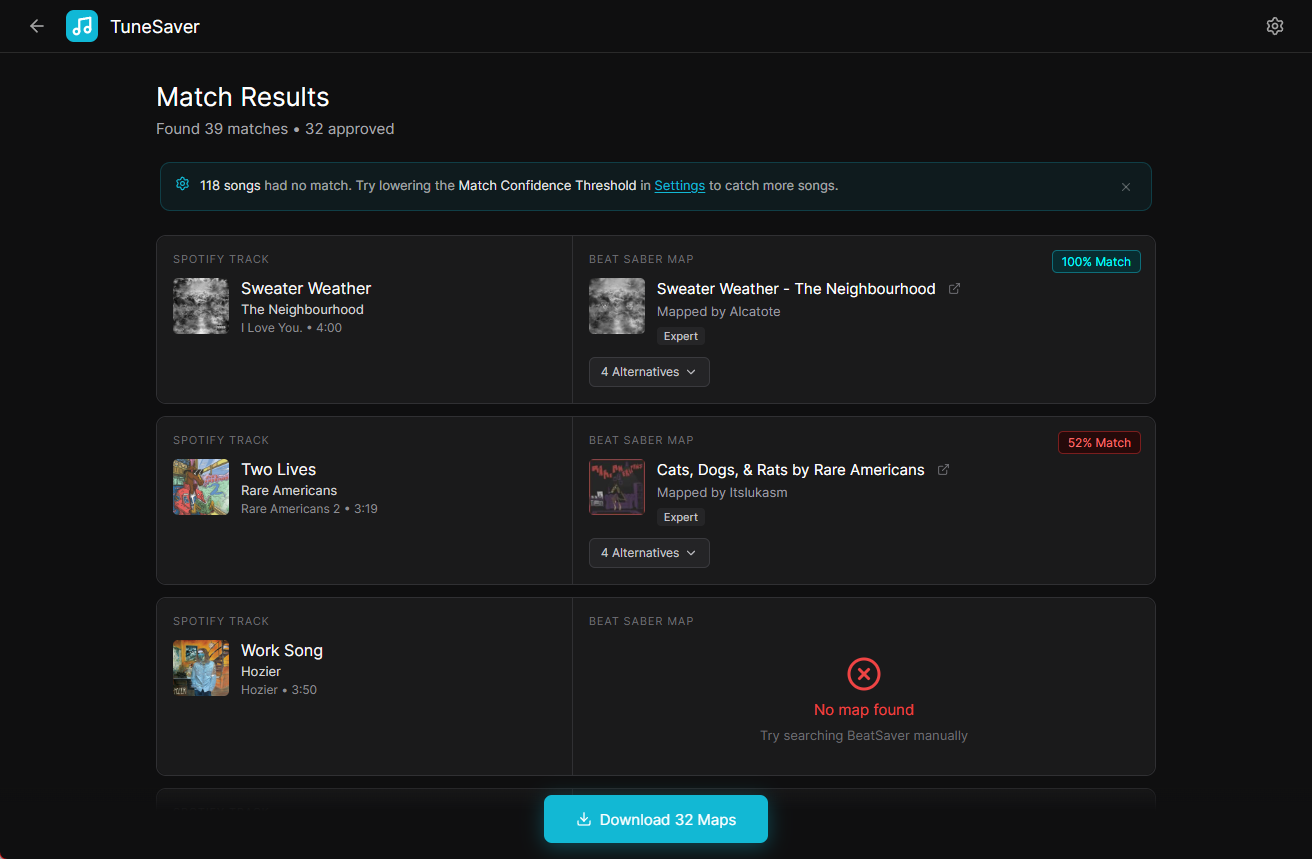
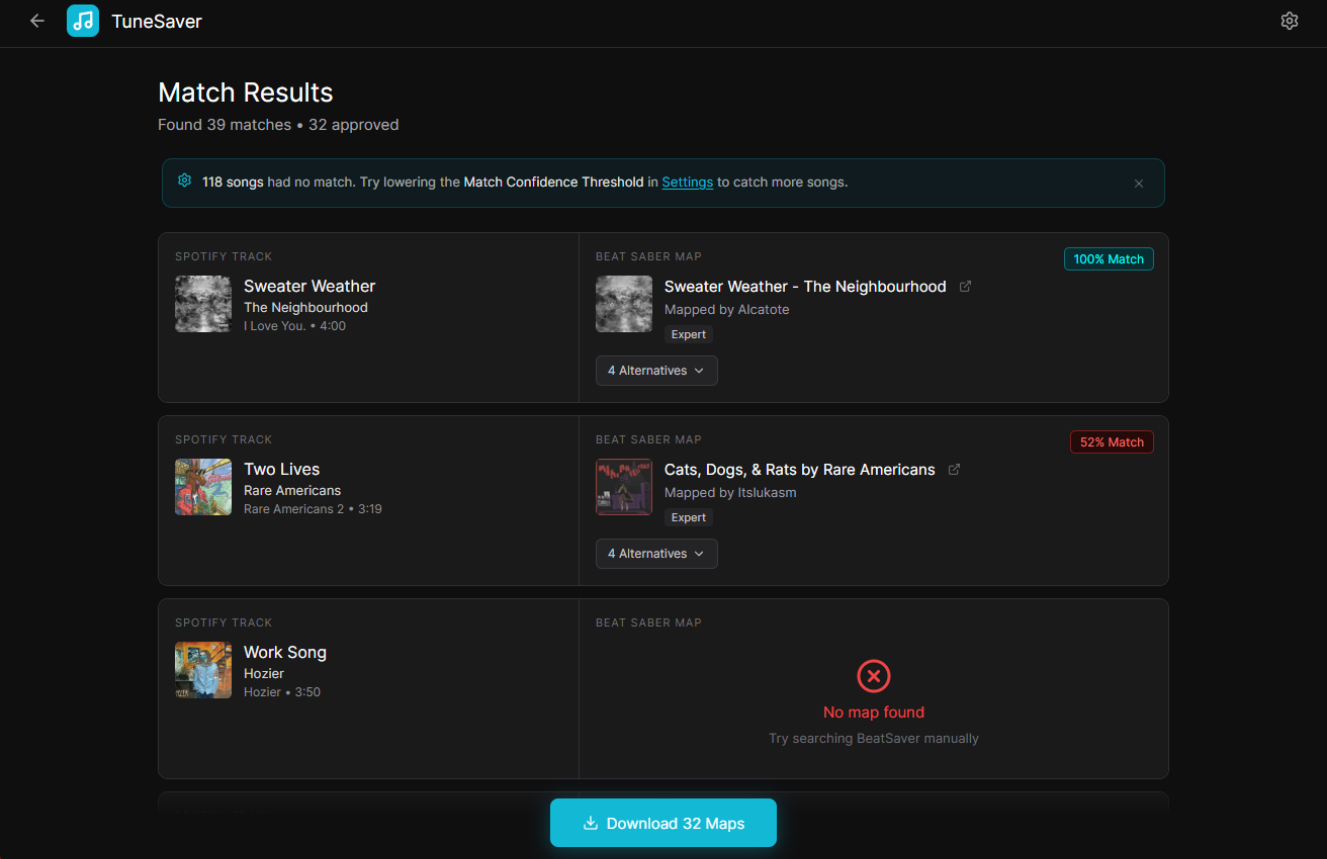
Added hero carousel images to project pages

diff --git a/app/project/dishmeister/page.tsx b/app/project/dishmeister/page.tsx
@@ -18,6 +18,7 @@ export default function Project() {
         images={
           theme == "dark"
             ? [
+                "/ProjectCarouselImages/Dishmeister/DishmeisterCarouselHero.png",
                 "/ProjectCarouselImages/Dishmeister/DishmeisterCarouselDark1.png",
                 "/ProjectCarouselImages/Dishmeister/DishmeisterCarouselDark2.png",
                 "/ProjectCarouselImages/Dishmeister/DishmeisterCarouselDark3.png",
@@ -25,6 +26,7 @@ export default function Project() {
                 "/ProjectCarouselImages/Dishmeister/DishmeisterCarouselDark5.png",
               ]
             : [
+                "/ProjectCarouselImages/Dishmeister/DishmeisterCarouselHero.png",
                 "/ProjectCarouselImages/Dishmeister/DishmeisterCarouselLight1.png",
                 "/ProjectCarouselImages/Dishmeister/DishmeisterCarouselLight2.png",
                 "/ProjectCarouselImages/Dishmeister/DishmeisterCarouselLight3.png",

diff --git a/components/Carousel/Carousel.module.css b/components/Carousel/Carousel.module.css
@@ -26,6 +26,8 @@
   overflow: hidden;
   height: 100%;
 }
+.carousel img {
+}
 
 .carouselSkeleton {
   width: 100%;

diff --git a/app/project/lystmate/page.tsx b/app/project/lystmate/page.tsx
@@ -13,6 +13,7 @@ export default function Project() {
         liveUrl="https://www.lystmate.app"
         sourceUrl="https://github.com/KarampelasDS/LystMate"
         images={[
+          "/ProjectCarouselImages/LystMate/LystMateCarouselHero.png",
           "/ProjectCarouselImages/LystMate/LystMateCarousel1.png",
           "/ProjectCarouselImages/LystMate/LystMateCarousel2.png",
           "/ProjectCarouselImages/LystMate/LystMateCarousel3.png",

diff --git a/app/project/tunesaver/page.tsx b/app/project/tunesaver/page.tsx
@@ -13,6 +13,7 @@ export default function Project() {
         liveUrl="https://tunesaver.vercel.app"
         sourceUrl="https://github.com/KarampelasDS/tunesaver"
         images={[
+          "/ProjectCarouselImages/TuneSaver/TuneSaverCarouselHero.png",
           "/ProjectCarouselImages/TuneSaver/TuneSaverCarousel1.png",
           "/ProjectCarouselImages/TuneSaver/TuneSaverCarousel2.png",
           "/ProjectCarouselImages/TuneSaver/TuneSaverCarousel3.png",